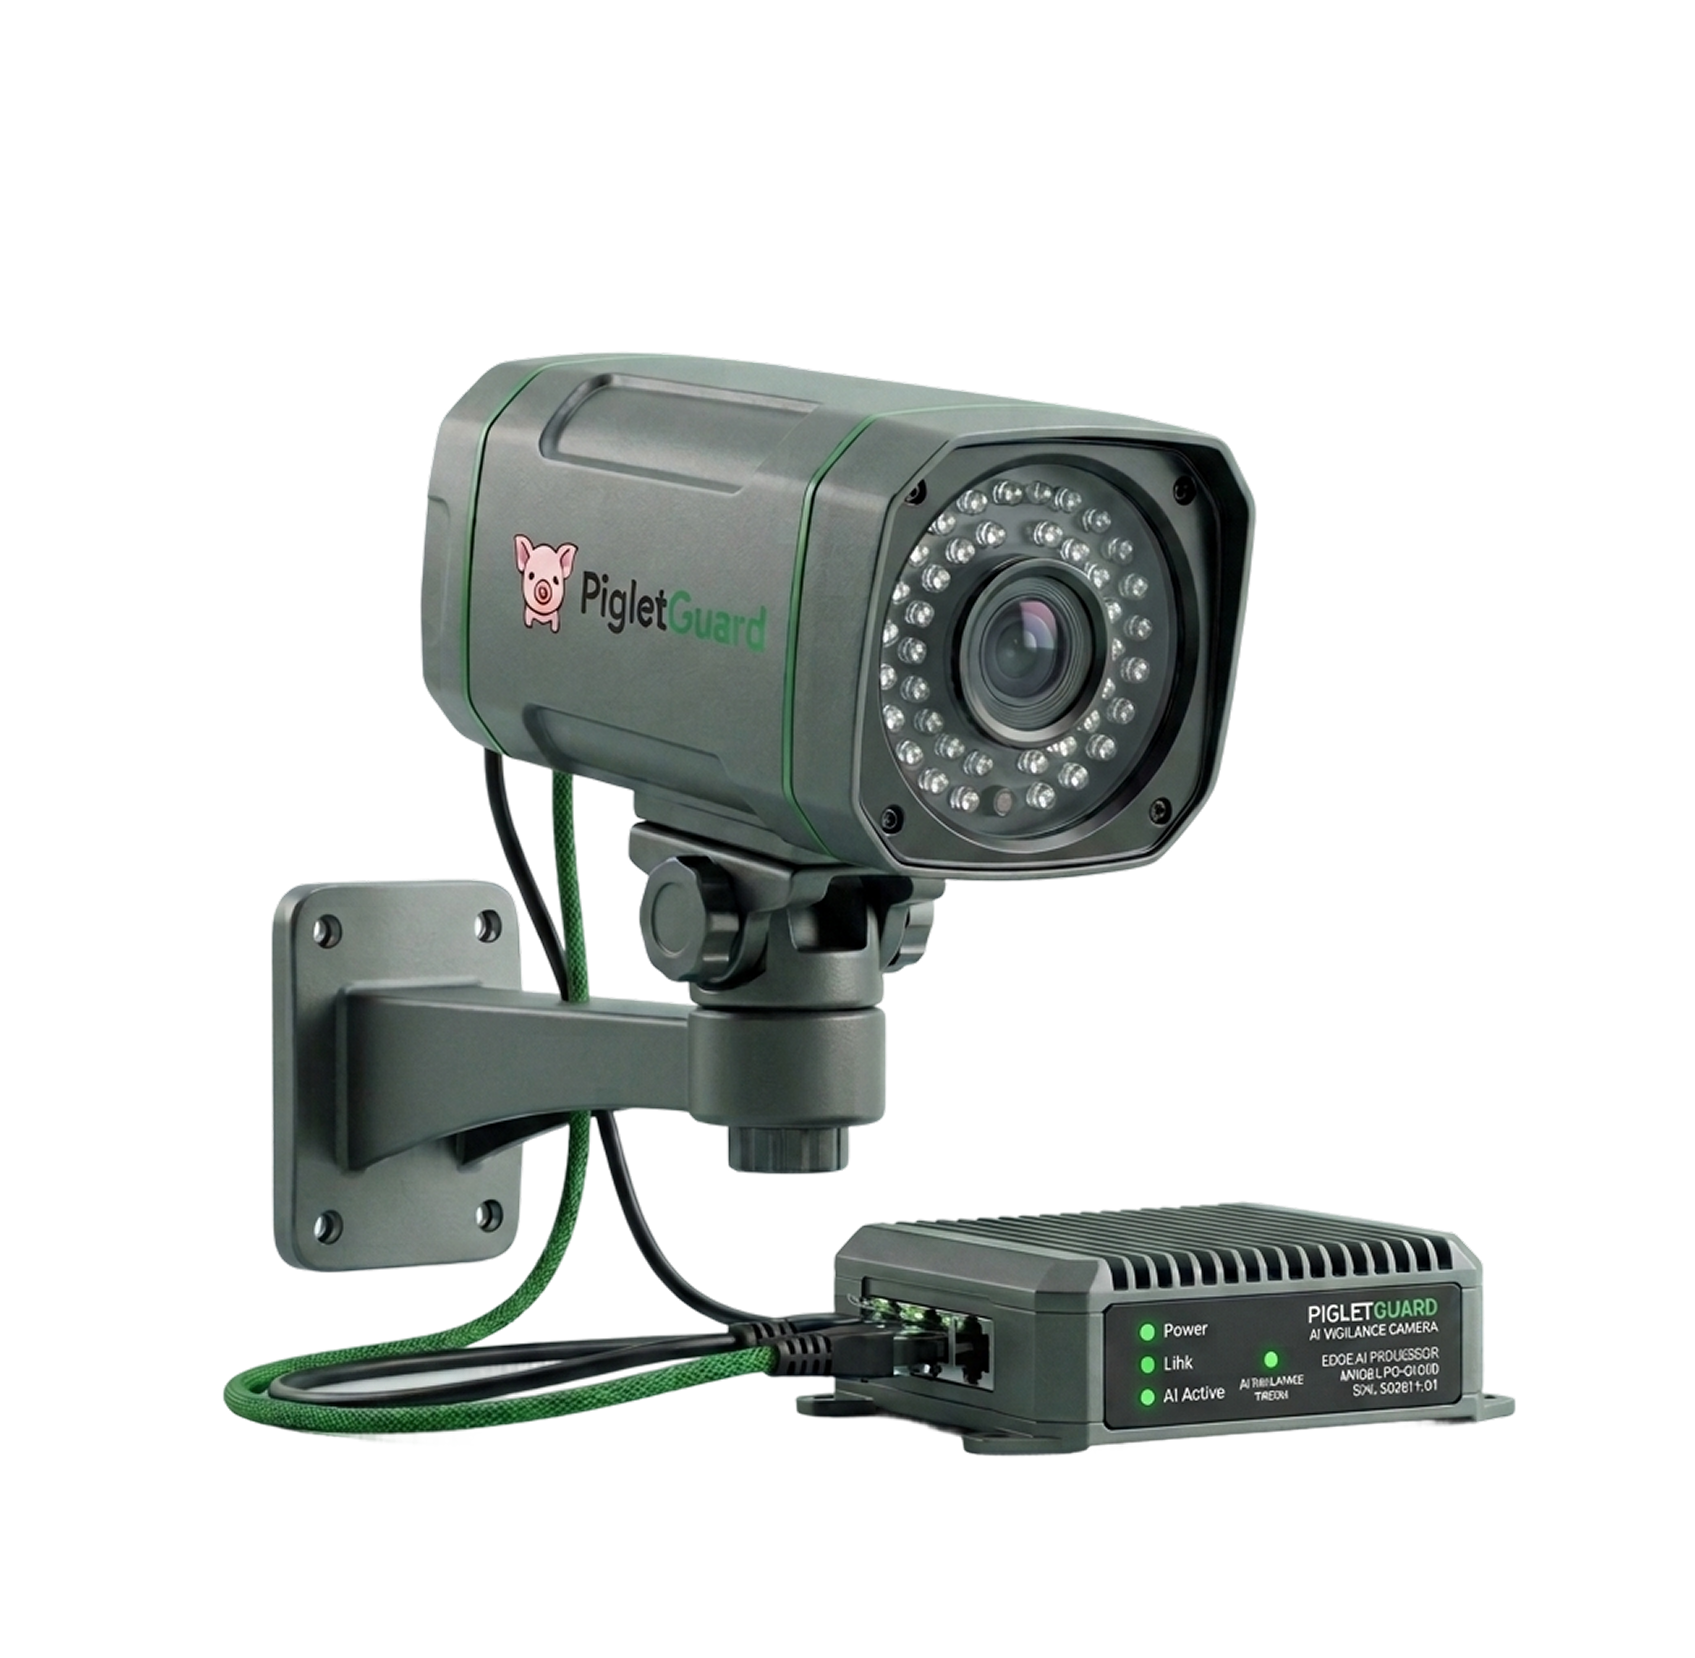
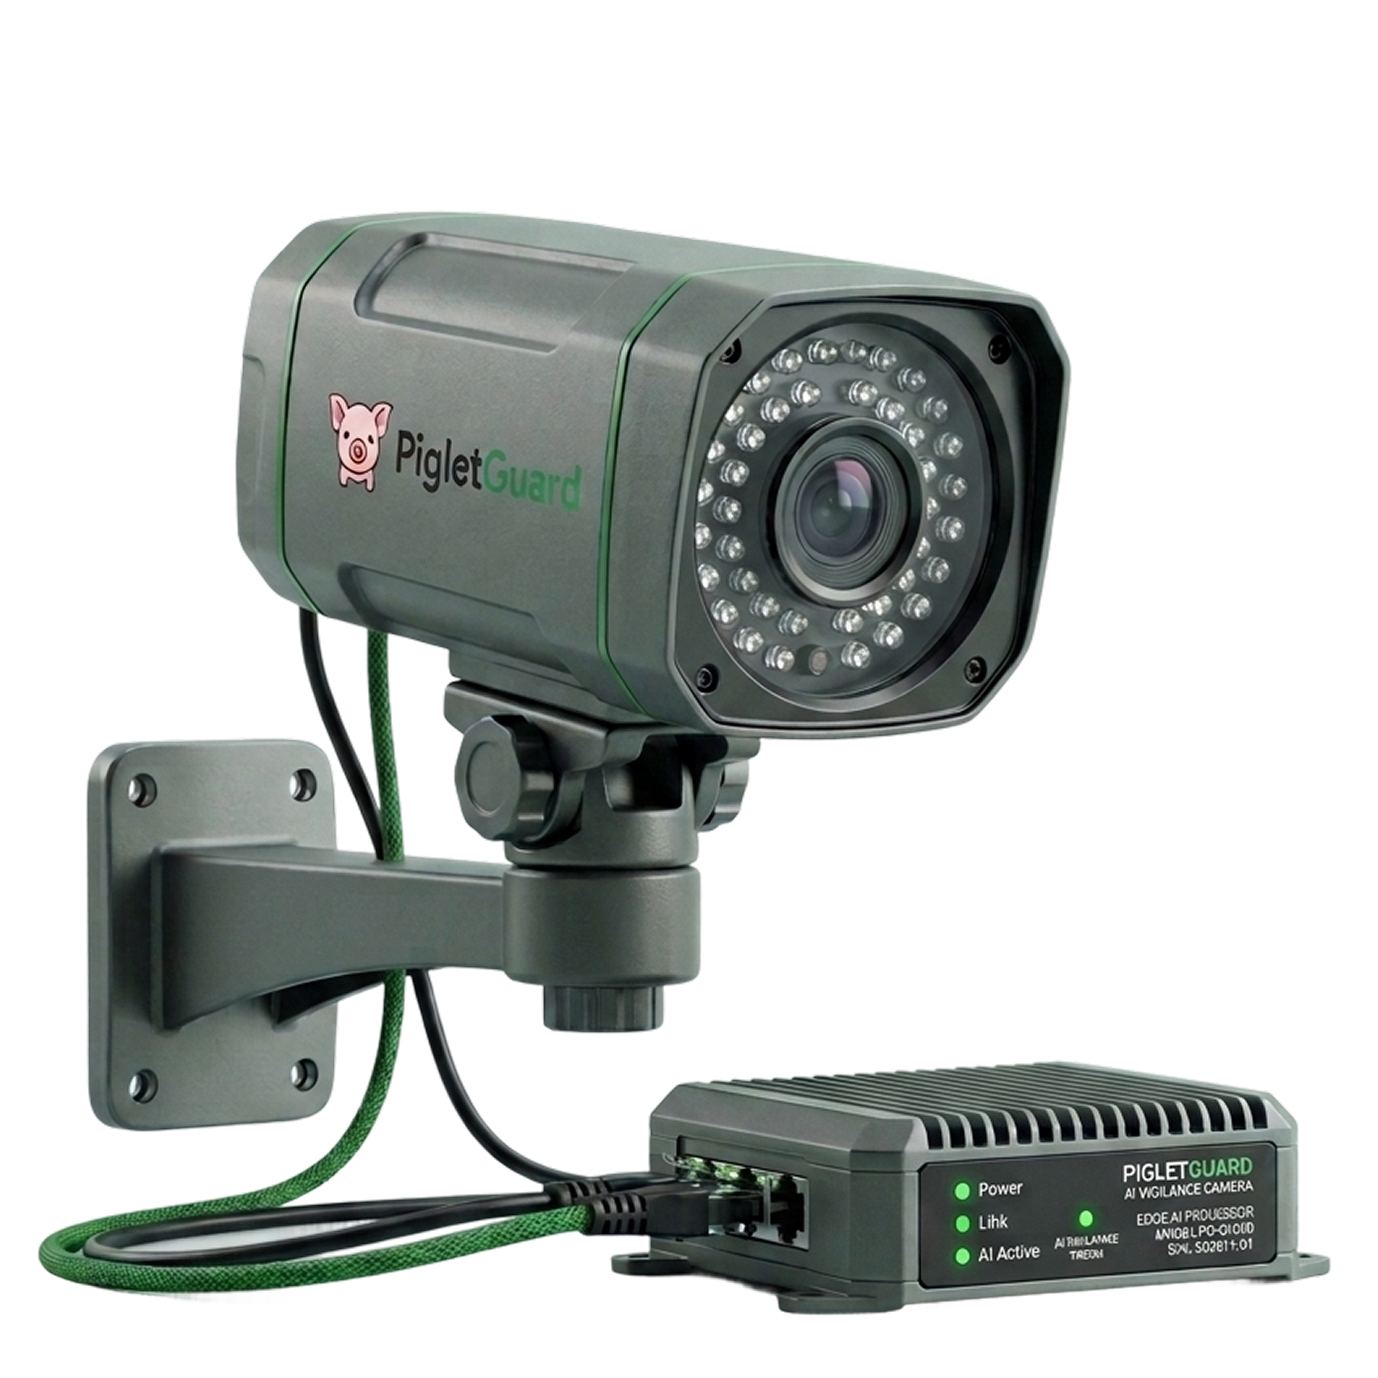
feat: update styling and content in Solutions and Why sections, add lighter pink color variable

diff --git a/components/sections/Why.tsx b/components/sections/Why.tsx
@@ -1,80 +1,69 @@
-const reasons = [
-  {
-    number: "01",
-    title: "Built for Filipino Swine Farms",
-    description:
-      "PigletGuard is designed around the realities of small and mid-scale Filipino farrowing operations — affordable hardware, intermittent connectivity, and mobile-first workflows.",
-  },
-  {
-    number: "02",
-    title: "On-Device AI — No Cloud Delay",
-    description:
-      "Detection runs directly on the phone. Even without internet, PigletGuard reacts in real time so no critical seconds are lost waiting for a server response.",
-  },
-  {
-    number: "03",
-    title: "Proven Intervention Logic",
-    description:
-      "Our crushing detection uses computer vision models trained on actual sow behavior, not generic object detection. Fewer false alarms, more real saves.",
-  },
-  {
-    number: "04",
-    title: "One App, Full Picture",
-    description:
-      "Live video, AI alerts, distress audio detection, and farm analytics — all in a single mobile app. No juggling separate tools or dashboards.",
-  },
-  {
-    number: "05",
-    title: "Instant Farmer Alerts",
-    description:
-      "Push notifications reach you in seconds the moment a risk is detected, whether you're in the next room or kilometers away from the farm.",
-  },
-  {
-    number: "06",
-    title: "Grows With Your Farm",
-    description:
-      "Start with one pen and one camera. Scale to multiple farrowing houses without replacing hardware or switching platforms.",
-  },
+import Image from "next/image";
+
+const bullets = [
+  "Specialized focus on swine farm technology.",
+  "AI-powered monitoring and detection systems.",
+  "Real-Time alerts for critical incidents.",
+  "Scalable solutions for farms of all sizes.",
+  "Cloud-based accessibility from anywhere.",
+  "Commitment to improving animal welfare and farm productivity.",
 ];
 
 export default function Why() {
   return (
-    <section
-      id="why"
-      className="scroll-mt-16 py-24 px-6 md:px-28 bg-white"
-    >
-      {/* Header */}
-      <div className="mb-14 max-w-2xl">
-        <p className="text-small font-semibold uppercase tracking-widest text-light-pink mb-3">
-          Why PigletGuard
-        </p>
-        <h2 className="text-title font-bold text-hot-pink leading-tight">
-          Why Choose PigletGuard?
-        </h2>
-        <p className="text-body text-black mt-4 leading-snug">
-          Other surveillance tools are generic. PigletGuard is purpose-built for the
-          one job that matters most during farrowing season — keeping every piglet alive.
-        </p>
-      </div>
+    <section id="why" className="scroll-mt-16 py-24 px-6 md:px-28 bg-white">
+      <div className="max-w-5xl mx-auto grid grid-cols-1 lg:grid-cols-2 items-center">
+        {/* Left: text content */}
+        <div className="flex flex-col gap-4">
+          <div>
+            {/* Pill badge */}
+            <div className="w-fit">
+              <span className="flex items-center gap-3 rounded-full bg-lighter-pink border border-dark-pink px-5 py-1.5 text-small font-semibold text-dark-pink whitespace-nowrap [box-shadow:-2px_-2px_6px_rgba(0,0,0,0.08)]">
+                <span className="h-1.5 w-1.5 rounded-full bg-hot-pink animate-pulse shrink-0" />
+                Why PigletGuard?
+              </span>
+            </div>
 
-      {/* 3-column grid */}
-      <div className="grid grid-cols-1 sm:grid-cols-2 lg:grid-cols-3 gap-6">
-        {reasons.map((reason) => (
-          <div
-            key={reason.number}
-            className="group rounded-2xl border border-light-pink/40 bg-light-pink/5 p-7 flex flex-col gap-4 hover:border-hot-pink/60 hover:bg-light-pink/10 transition-colors"
-          >
-            <span className="text-4xl font-bold text-hot-pink/20 group-hover:text-hot-pink/40 transition-colors leading-none">
-              {reason.number}
-            </span>
-            <h3 className="text-small font-bold text-dark-pink leading-snug">
-              {reason.title}
-            </h3>
-            <p className="text-small text-black leading-relaxed">
-              {reason.description}
-            </p>
+            {/* Heading */}
+            <h2 className="text-title font-bold leading-tight">
+              <span className="text-dark-pink">Build For Farmers,</span>
+              <br />
+              <span className="text-light-pink">Powered with AI.</span>
+            </h2>
           </div>
-        ))}
+
+          {/* Subheading */}
+          <p className="text-body text-black leading-tight mb-3">
+            Every feature is designed for the realities of Philippine swine
+            production — humid pens, busy farmhands, and tight margins.
+          </p>
+
+          {/* Bullet list */}
+          <ul className="flex flex-col gap-5">
+            {bullets.map((bullet) => (
+              <li key={bullet} className="flex items-center gap-6">
+                <Image
+                  src="/assets/Why/check.svg"
+                  alt=""
+                  width={20}
+                  height={20}
+                  className="shrink-0"
+                />
+                <span className="text-body text-black">{bullet}</span>
+              </li>
+            ))}
+          </ul>
+        </div>
+
+        {/* Right: camera image */}
+        <div className="relative h-[520px] w-full">
+          <Image
+            src="/assets/Why/Gemini_Generated_Image_5l3rax5l3rax5l3r%201.png"
+            alt="PigletGuard surveillance camera"
+            fill
+            className="object-contain object-center"
+          />
+        </div>
       </div>
     </section>
   );

diff --git a/components/sections/Solutions.tsx b/components/sections/Solutions.tsx
@@ -94,7 +94,7 @@ export default function Solutions() {
           onClick={() => scrollToSection("why")}
           className="rounded-full bg-hot-pink px-6 py-2.5 text-small font-semibold text-white hover:bg-dark-pink transition-colors cursor-pointer"
         >
-          Why Choose PigletGuard
+          Why Choose PigletGuard?
         </button>
       </div>
     </section>

diff --git a/app/globals.css b/app/globals.css
@@ -10,6 +10,7 @@
   --color-background: var(--background);
   --color-foreground: var(--foreground);
   --color-black: #1f1f1f;
+  --color-lighter-pink: #fff5f8;
   --color-light-pink: #ffb6c1;
   --color-hot-pink: #ff4081;
   --color-dark-pink: #cc6f79;